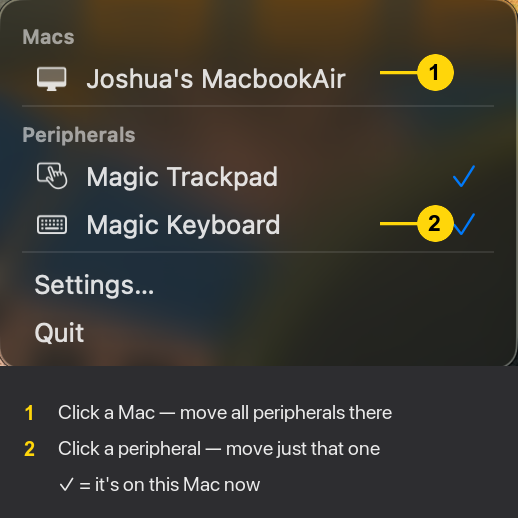
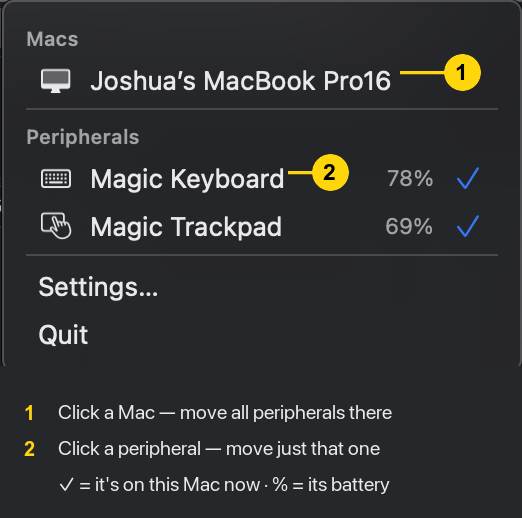
docs: recapture README screenshots against the Macs-era UI (#96)
* docs: recapture README screenshots against the Macs-era UI

Every annotated screenshot predated the July/August UI work: the Device
tab rename to Macs (with Sync and Add by Address), battery levels in the
menu and peripheral rows, the uniform action pills, the keyboard-shortcut
recorders, and the display-connect list. Recapture all of them, add the
previously unillustrated Add a Mac by Address sheet, and update the
annotation script's coordinates and legends to match (device-tab becomes
macs-tab; sections without a raw capture are now skipped instead of
aborting). README captions follow: battery levels in the hero and
Peripheral tab, the new sheet figure in Setup, and an Other-tab caption
that matches the scrolled capture.

The four Pairing screenshots are still the old captures.

* docs: stitch the full Other tab and keep the icon'd type-picker capture

The Other tab outgrew the window, so one scrolled capture hid either the
top or the bottom. Stitch three scrolled captures into a single
full-height raw — slices cut on flat background between sections, aligned
by crop offset, overlay scrollbar painted out — and re-badge all six
affordances. Revert peripheral-type-picker.png to the previous capture:
menu-item icons only render on macOS 26, and the recapture came from a
Sequoia Mac, so its picker menu was text-only.

* docs: recapture the menu in its reachable state, badge the display row itself

- menu.png previously showed every row greyed out (peer unreachable) —
[…]

diff --git a/Magic Switch/Model/Store/NetworkDeviceStore.swift b/Magic Switch/Model/Store/NetworkDeviceStore.swift
@@ -834,6 +834,7 @@ enum ManualAddError: Error {
   case selfDial
   case legacyPeer
   case anotherMacRegistered(String)
+  case listenerNotReady
   case outgoing(OutgoingFailure)
 
   var userMessage: String {
@@ -845,6 +846,19 @@ enum ManualAddError: Error {
         "The other Mac runs an older version of Magic Switch that can't be added by address. Update it first."
     case .anotherMacRegistered(let name):
       return "Only one Mac can be connected at a time. Remove \(name) first."
+    case .listenerNotReady:
+      return "This Mac isn't accepting connections yet. Try again in a moment."
+    case .outgoing(.connectTimeout), .outgoing(.connectionFailed(_)),
+      .outgoing(.handshakeFailed(.handshakeTimeout)),
+      .outgoing(.handshakeFailed(.connectionClosed)),
+      .outgoing(.handshakeFailed(.sendFailed(_))),
+      .outgoing(.handshakeFailed(.framingFailed)),
+      .outgoing(.handshakeFailed(.frameTooLarge)):
+      // An unpaired peer refuses the connection before the handshake, so it
+      // is indistinguishable here from a firewall drop, a dead host, or a
+      // different service answering on the port.
+      return
+        "Couldn't reach the other Mac securely. Check that it's running Magic Switch and paired with the same code (Settings → Pairing), and that no firewall is blocking the port."
     case .outgoing(let failure):
       return failure.userMessage
     }
@@ -1258,6 +1272,12 @@ extension NetworkDeviceStore {
     host: String, port: UInt16,
     completion: @escaping (Result<NetworkDevice, ManualAddError>) -> Void
   ) {
+    // Without a bound listener there's no local identity to INTRODUCE with;
+    // `executeIntroduce` would report it as a peer-shaped connection failure.
+    guard servicePublisher.currentIdentity() != nil else {
+      completion(.failure(.listenerNotReady))
+      return
+    }
     let target = NetworkDevice(id: host, name: host, host: host, port: Int(port))
     executeIntroduce(on: target) { [weak self] result in
       DispatchQueue.main.async {

diff --git a/README.md b/README.md
@@ -10,7 +10,7 @@ This is a security-hardened fork of [HoshimuraYuto/blue-switch](https://github.c
 
 <p align="center">
   <img src="docs/assets/menu.png" alt="The Magic Switch menu-bar dropdown" width="340"><br>
-  <em>It lives in the menu bar: click a Mac to move every peripheral to it, or a single peripheral to move just that one. A checkmark marks whatever's on this Mac right now.</em>
+  <em>It lives in the menu bar: click a Mac to move every peripheral to it, or a single peripheral to move just that one. A checkmark marks whatever's on this Mac right now, with its battery level.</em>
 </p>
 
 ## Installation
@@ -33,7 +33,7 @@ Then launch Magic Switch, grant **Bluetooth** and **Local Network** when prompte
 
 ### 2. Peripheral tab — choose what to manage
 
-Tick the Magic devices you want Magic Switch to hand back and forth. Each row's leading icon shows the detected device type; click it to override the type or reset it to Automatic.
+Tick the Magic devices you want Magic Switch to hand back and forth. Each row's leading icon shows the detected device type; click it to override the type or reset it to Automatic. Rows show a live battery level while the peripheral is connected to this Mac.
 
 <p align="center">
   <img src="docs/assets/peripheral-tab.png" alt="Peripheral tab showing registered and available peripherals" width="600"><br>
@@ -45,20 +45,9 @@ Tick the Magic devices you want Magic Switch to hand back and forth. Each row's 
   <em>That leading icon is also a picker — Magic Switch auto-detects the type (keyboard, mouse, trackpad, headphones, AirPods, microphone), and you can override it or set it back to Automatic.</em>
 </p>
 
-### 3. Macs tab — pick the other Mac
+### 3. Pairing tab — link the two Macs (required)
 
-Choose the other Mac under **Macs Found on the Network**. It shows up once it's on the same network running Magic Switch; a greyed-out row means it isn't reachable right now.
-
-If your network blocks Bonjour (some MDM-managed Macs can't advertise; some Wi-Fi networks filter multicast), the other Mac may never appear here. Use the **+** button to add it by IP address instead — the sheet on each Mac shows the address and port to enter on the other one, and one side is enough: the other Mac then lists this one automatically. Magic Switch listens on TCP port **41952**; allow it through any firewall between the two Macs.
-
-<p align="center">
-  <img src="docs/assets/device-tab.png" alt="Macs tab showing the connected Mac and available Macs" width="600"><br>
-  <em>Macs tab — pick the other Mac, sync peripherals to it, and check it's reachable.</em>
-</p>
-
-### 4. Pairing tab — link the two Macs (required)
-
-Generate a twelve-character code on one Mac and enter it on the other; either direction works, since both Macs derive the same key from the same code. They should then show the same eight-character fingerprint — if they differ, the code was mistyped. Until this is done, switching and peripheral sync refuse to talk to the peer.
+Generate a twelve-character code on one Mac and enter it on the other; either direction works, since both Macs derive the same key from the same code. They should then show the same eight-character fingerprint — if they differ, the code was mistyped. Until this is done, switching and peripheral sync refuse to talk to the peer, and an unpaired Mac can't be added by address in the next step. (Pairing needs no connection between the Macs; the code alone is enough.)
 
 <p align="center">
   <img src="docs/assets/pairing-not-paired.png" alt="Pairing tab before pairing" width="600"><br>
@@ -76,6 +65,22 @@ Generate a twelve-character code on one Mac and enter it on the other; either di
   <em>After pairing — both Macs show the same fingerprint. If they differ, the code was mistyped.</em>
 </p>
 
+### 4. Macs tab — pick the other Mac
+
+Choose the other Mac under **Macs Found on the Network**. It shows up once it's on the same network running Magic Switch; a greyed-out row means it isn't reachable right now.
+
+If your network blocks Bonjour (some MDM-managed Macs can't advertise; some Wi-Fi networks filter multicast), the other Mac may never appear here. Use the **+** button to add it by IP address instead — the sheet on each Mac shows the address and port to enter on the other one, and one side is enough: the other Mac then lists this one automatically. Adding by address only works once **both Macs are paired** (step 3) and running Magic Switch — an unpaired Mac refuses the connection, and the add fails. Magic Switch listens on TCP port **41952**; allow it through any firewall between the two Macs.
+
+<p align="center">
+  <img src="docs/assets/macs-tab.png" alt="Macs tab showing the connected Mac and available Macs" width="600"><br>
+  <em>Macs tab — pick the other Mac, sync peripherals to it, and check it's reachable.</em>
+</p>
+
+<p align="center">
+  <img src="docs/assets/add-by-address.png" alt="The Add a Mac by Address sheet" width="600"><br>
+  <em>Add a Mac by Address (the <strong>+</strong> button) — the sheet shows this Mac's address and port to enter on the other one.</em>
+</p>
+
 ### 5. Sync your peripherals to the other Mac
 
 On the **Macs** tab, find the other Mac under **Your Other Mac** and click its **Sync** button (the circular arrows, beside **Ping**). A "Synced N peripherals to …" line confirms it. The button is greyed out while that Mac is offline.
@@ -85,8 +90,8 @@ On the **Macs** tab, find the other Mac under **Your Other Mac** and click its *
 **Launch at Login**, recordable **keyboard shortcuts** that send, take, or toggle every peripheral from anywhere in macOS, two peripheral-handling toggles (**Release peripherals when this Mac sleeps** and **Reconnect peripherals if they drop** — see [Troubleshooting](#troubleshooting)), a **Take peripherals when a display connects** list (mark a display to make docking this Mac to it switch your peripherals over automatically — see [Troubleshooting](#troubleshooting)), the installed version, and update notifications (see [Updates](#updates)). A **"Notifications are off"** warning appears at the top of this tab when macOS notifications are disabled for Magic Switch — see [Troubleshooting](#troubleshooting) for why that matters.
 
 <p align="center">
-  <img src="docs/assets/other-tab.png" alt="Other tab showing app preferences" width="600"><br>
-  <em>Other tab — Launch at Login, the sleep-release and auto-reconnect toggles, license info, version, and a manual update check.</em>
+  <img src="docs/assets/other-tab.png" alt="Other tab showing all app preferences" width="600"><br>
+  <em>Other tab — Launch at Login, the peripheral-handling toggles, keyboard shortcut recorders, the display-connect list, version, and update check.</em>
 </p>
 
 ## Usage
@@ -129,6 +134,7 @@ Magic Switch tells you when there's a new version — it never updates itself. A
 - Same network; TCP port 41952 not blocked by firewall.
 - Bluetooth and Local Network permissions granted in System Settings → Privacy & Security.
 - A **greyed-out device** — in the Macs tab or the right-click menu — means it isn't reachable on the network right now (the other Mac is asleep, off Wi-Fi, or not running Magic Switch). Ping, Sync, and switching stay disabled until it's back online.
+- **Both Macs changed IP address at once (Bonjour-blocked networks).** An IP change normally heals itself: a reachability probe that gets through teaches the receiving Mac the dialing Mac's current address from the connection itself, so as long as one Mac can still reach the other, both sides end up with working addresses. But when *both* Macs get new addresses at the same time on a network where Bonjour is blocked — a router reassigning every lease, or both Macs moving to another network — each keeps dialing the other's old address and neither probe ever lands. Re-add the other Mac by IP address (the **+** button on the Macs tab) from either side; one side is enough.
 - **A switch failed and nothing told you.** Failures — a peripheral that won't connect, a Mac that can't be reached, an identity mismatch — are reported via system notifications, because a hotkey, URL-scheme, or automatic switch has no window to show an error in. If macOS notifications are off for Magic Switch, those failures are completely silent; **Settings → Other** shows a **"Notifications are off"** warning when that's the case. Re-enable them under System Settings → Notifications → Magic Switch. (The Pairing and Macs tabs also show their errors inline, so actions taken *there* still report failures either way.)
 - On the **Macs** tab, **Ping** tests whether the two Macs can reach each other over the secure channel.
 - **Closing or sleeping one Mac hands its peripherals to the other.** When this Mac sleeps (or you close its lid), it hands the peripherals it holds to your other Mac — or, if that Mac isn't reachable yet, frees them so it can pick them up the moment it wakes. That's why you can close one Mac and find the keyboard and mouse already on the other. This is on by default; you can turn it off under **Settings → Other → "Release peripherals when this Mac sleeps."**
